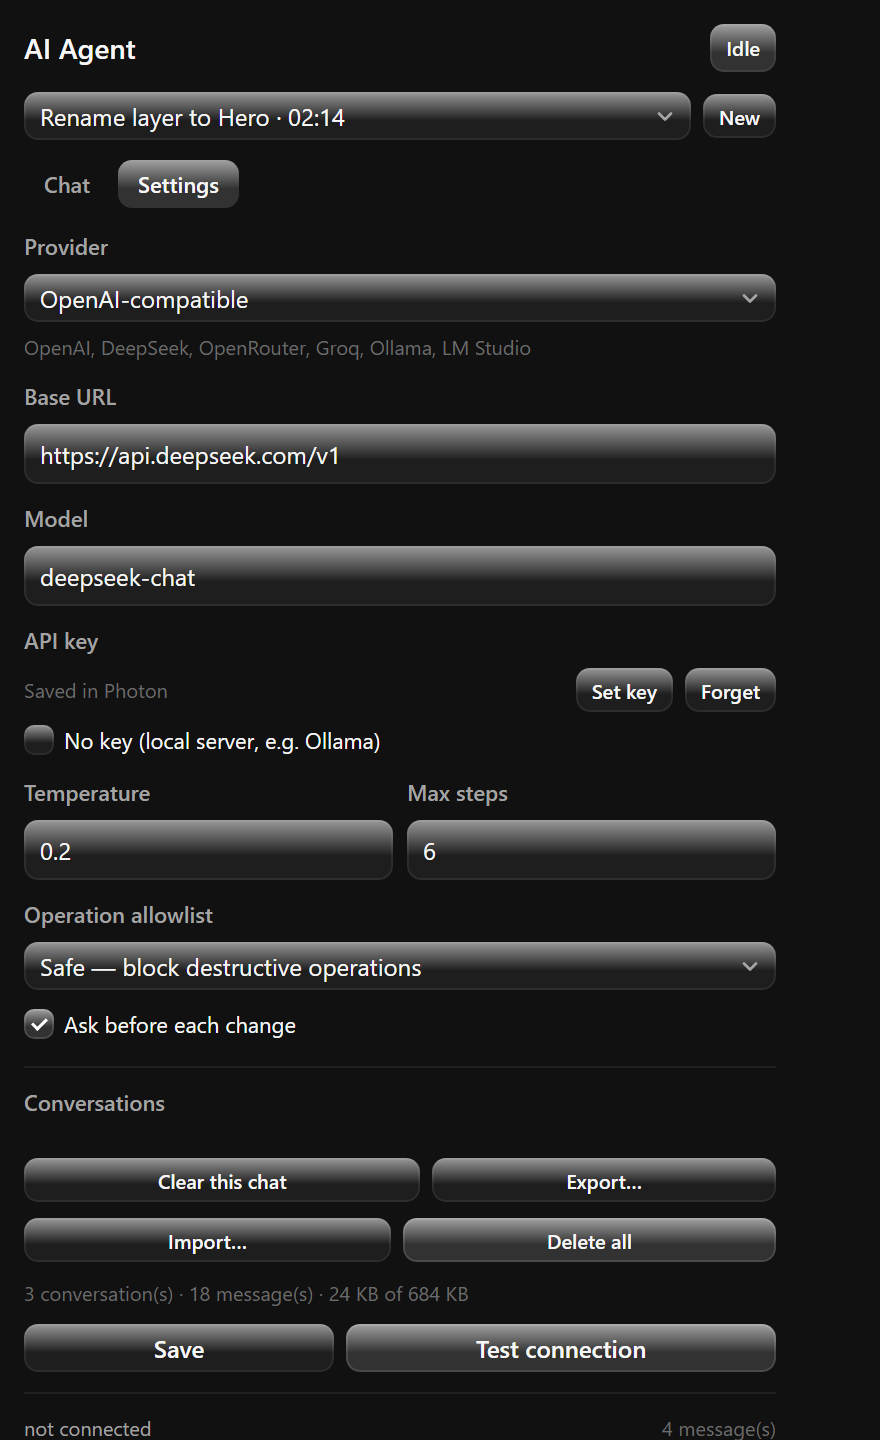
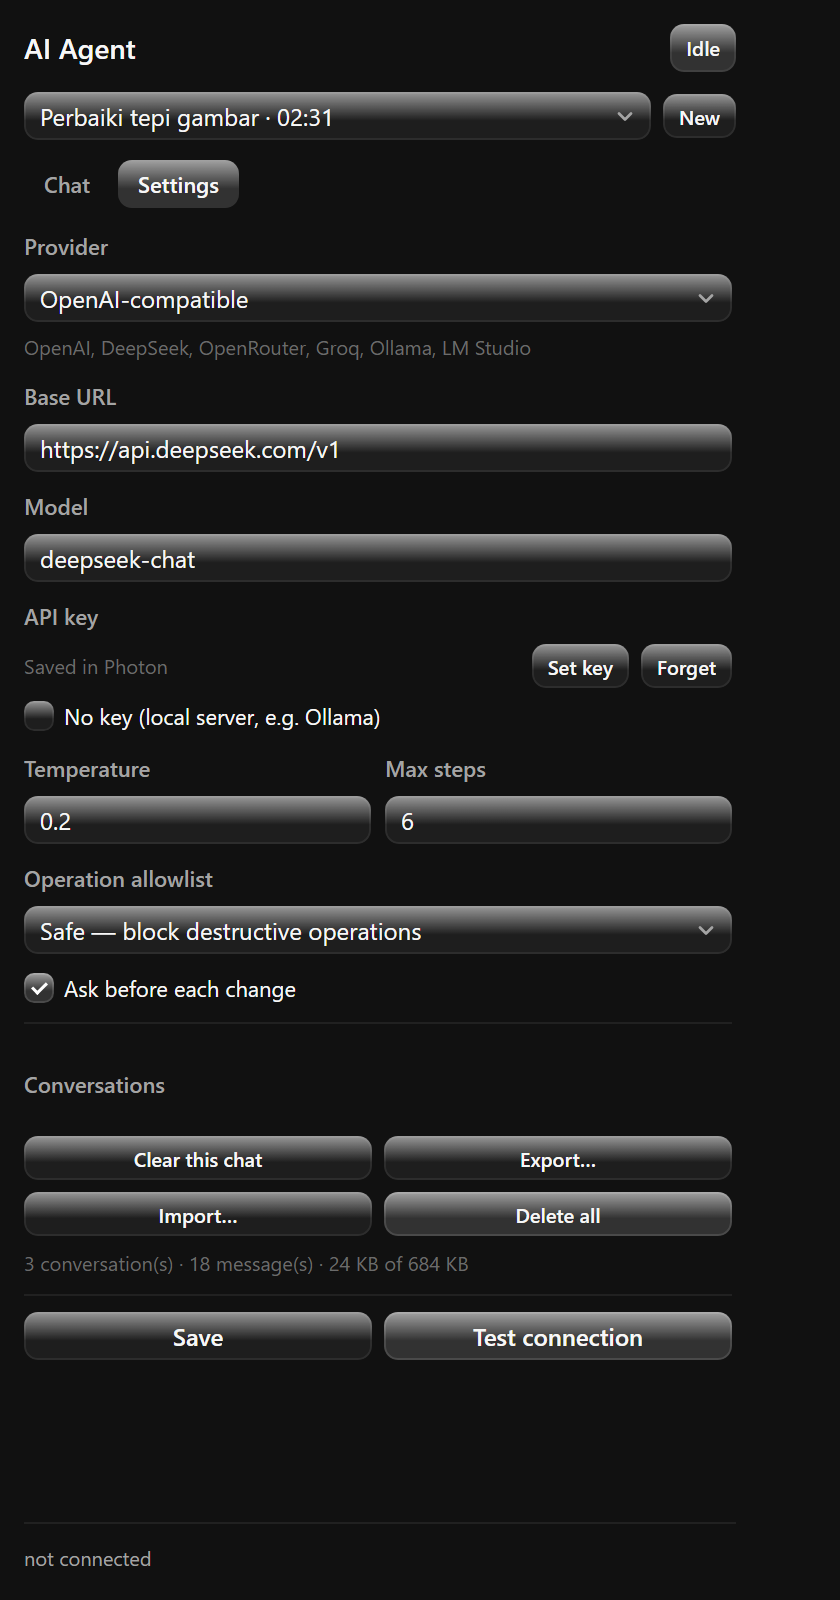
style: tidy the settings layout with an aligned conversation grid

diff --git a/plugin/index.html b/plugin/index.html
@@ -110,18 +110,18 @@
           <span>Ask before each change</span>
         </label>
 
-        <p class="label sep">Conversations</p>
-        <div class="actions">
-          <button id="clearChat" class="button small" type="button">Clear this chat</button>
-          <button id="exportChat" class="button small" type="button">Export…</button>
+        <div class="section">
+          <p class="label">Conversations</p>
+          <div class="grid2">
+            <button id="clearChat" class="button small" type="button">Clear this chat</button>
+            <button id="exportChat" class="button small" type="button">Export…</button>
+            <button id="importChat" class="button small" type="button">Import…</button>
+            <button id="deleteAll" class="button small cancel" type="button">Delete all</button>
+          </div>
+          <p id="convStats" class="hint stats"></p>
         </div>
-        <div class="actions">
-          <button id="importChat" class="button small" type="button">Import…</button>
-          <button id="deleteAll" class="button small cancel" type="button">Delete all</button>
-        </div>
-        <p id="convStats" class="hint"></p>
 
-        <div class="actions">
+        <div class="actions footer-actions">
           <button id="save" class="button" type="button">Save</button>
           <button id="test" class="button cancel" type="button">Test connection</button>
         </div>

diff --git a/plugin/panel.css b/plugin/panel.css
@@ -162,12 +162,6 @@ select:focus-visible {
   min-width: 0;
 }
 
-.sep {
-  margin-top: 4px;
-  padding-top: 8px;
-  border-top: 1px solid var(--ag-line);
-}
-
 .tab {
   height: 24px;
   padding: 0 10px;
@@ -517,7 +511,18 @@ textarea,
   color: var(--ag-text);
   font-size: var(--ag-text-base);
   line-height: var(--ag-leading);
+}
+
+textarea {
   resize: vertical;
+  min-height: 56px;
+}
+
+/* single-line inputs line up with select triggers and buttons (24px) */
+.input {
+  height: var(--ag-control-height);
+  padding: 0 8px;
+  line-height: 22px;
 }
 
 textarea::placeholder,
@@ -530,8 +535,38 @@ textarea::placeholder,
   gap: 6px;
 }
 
+/* equal columns: flex-basis 0 keeps both buttons the same width regardless of their label */
 .actions .button {
-  flex: 1 1 auto;
+  flex: 1 1 0;
+  min-width: 0;
+}
+
+.footer-actions {
+  padding-top: 8px;
+  border-top: 1px solid var(--ag-line);
+}
+
+/* grouped block with its own heading (Conversations, …) */
+.section {
+  display: flex;
+  flex-direction: column;
+  gap: 6px;
+  padding-top: 10px;
+  border-top: 1px solid var(--ag-line);
+}
+
+.grid2 {
+  display: grid;
+  grid-template-columns: 1fr 1fr;
+  gap: 6px;
+}
+
+.grid2 .button {
+  width: 100%;
+}
+
+.stats {
+  font-variant-numeric: tabular-nums;
 }
 
 /* Icon-only button: square, same height as the row, tooltip carries the label. */

diff --git a/README.md b/README.md
@@ -189,6 +189,15 @@ node tools/images-test.cjs      # 13 tests — mime detection, 1 MB ladder, clip
 
 ## Changelog
 
+### 0.3.5
+
+- Settings tidy-up: the conversation actions are a real 2×2 grid with equal column widths
+  (`flex-basis: 0` instead of `auto`, so labels no longer stretch buttons unevenly), grouped under
+  a **Conversations** section with the usage line underneath, and **Save / Test connection** moved
+  into their own divided row.
+- Every single-line control is now the same 24 px tall (Provider, Base URL, Model, Temperature,
+  Max steps, allowlist); multi-line textarea keeps its own bigger box. Unused `.sep` rule removed.
+
 ### 0.3.4
 
 - Project renamed from `llm-interface` to **photon-llm-interface**: the folder and the manifest
